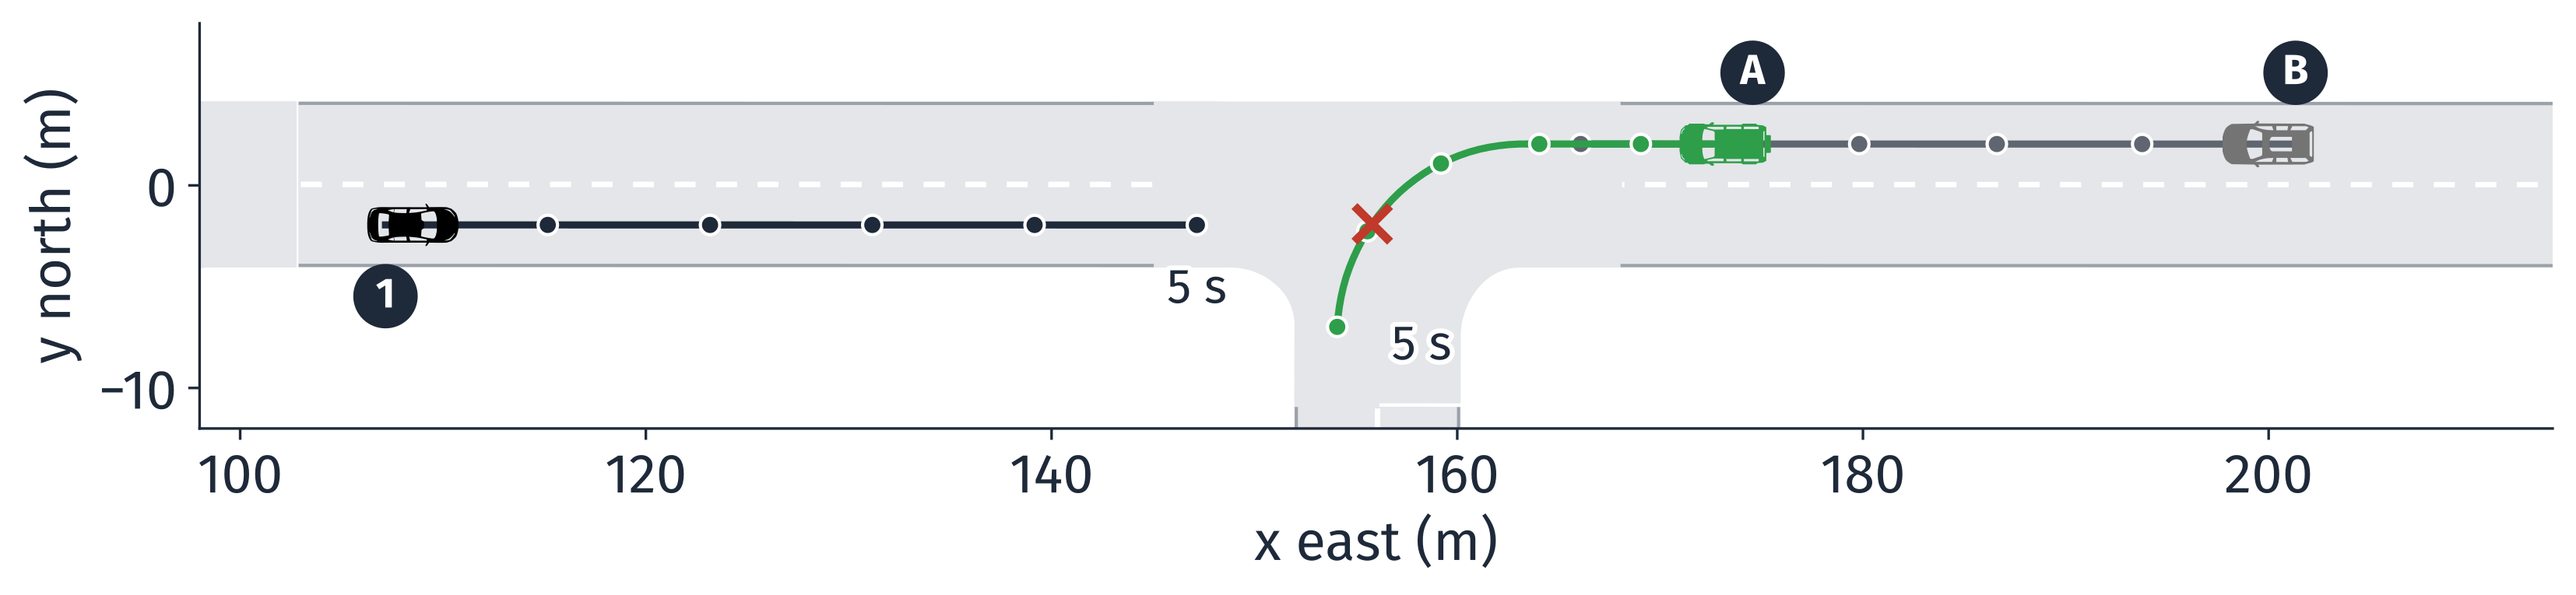
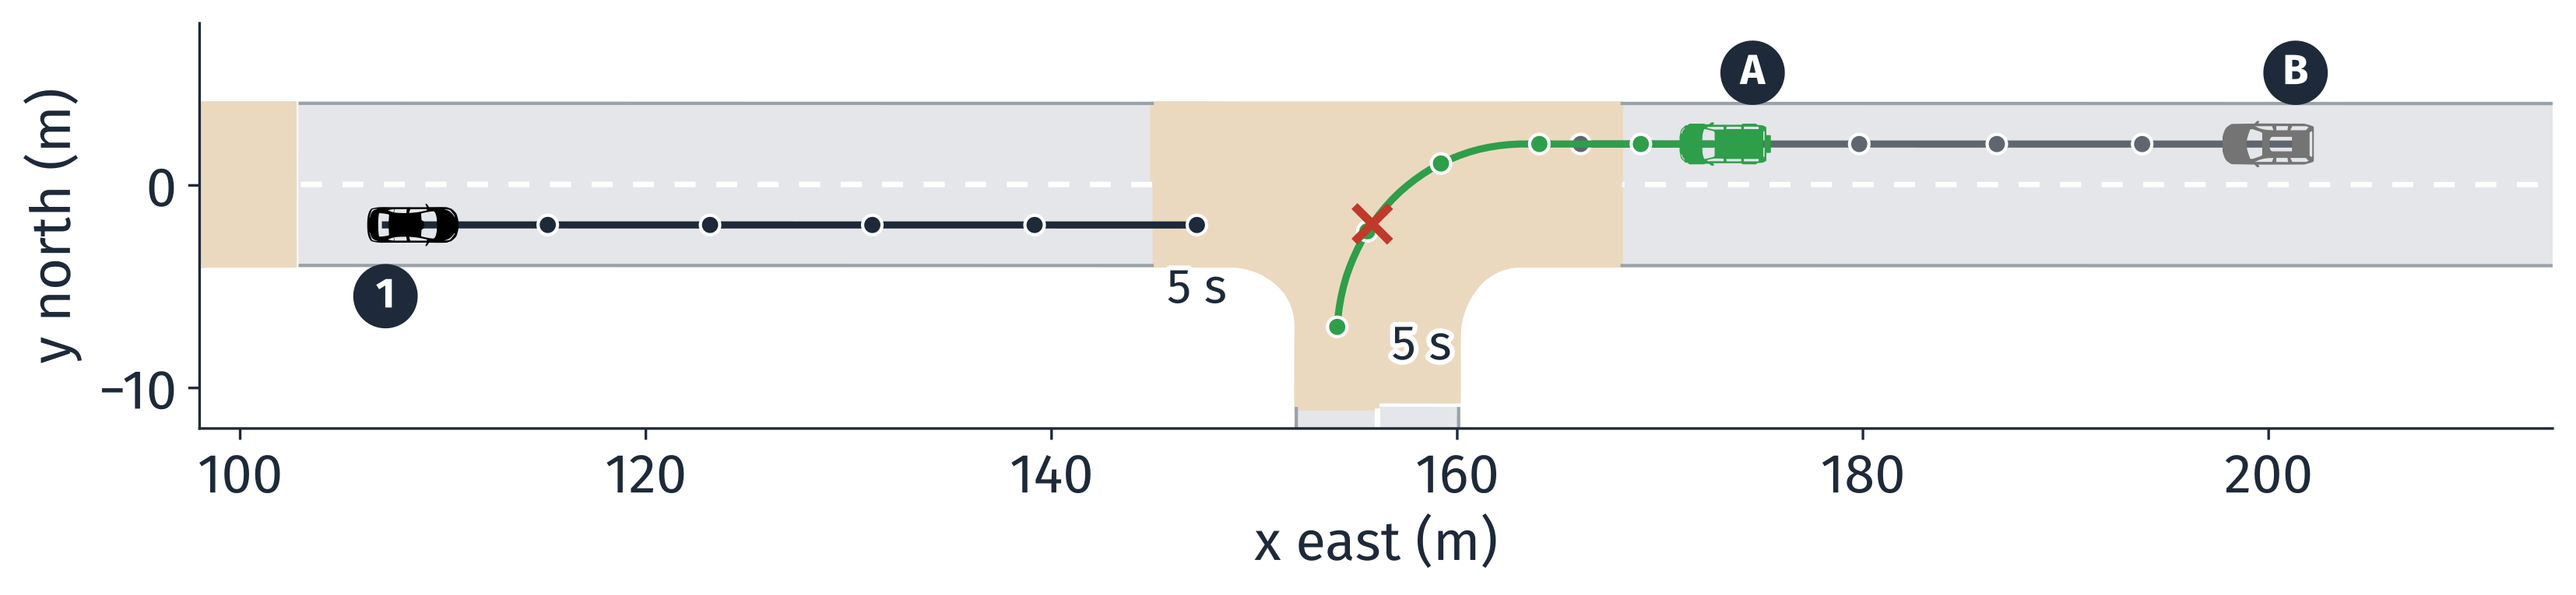
v2.18.9: L8 junction shaded tan on the map and true-futures figures
Same shading as the later L8 figures; captions and alt text say so.

Changed region(s): [[0.4358, 0.1503, 0.6537, 0.6915], [0.0623, 0.1503, 0.1245, 0.451]]

diff --git a/docs/source/lectures/lecture8/l8_lecture.rst b/docs/source/lectures/lecture8/l8_lecture.rst
@@ -354,14 +354,15 @@ The Junction, from the Map
 ~~~~~~~~~~~~~~~~~~~~~~~~~~
 
 .. figure:: /_static/images/L8/scene_map.png
-   :alt: A top view of a T-junction from the map, x east from 98 to 214 meters, y north from minus 24 to 12 meters. A road runs east to west with one lane each way, a white dashed center line, and a side road leaving the junction to the south. Tag 1: the AV, a black car on the south lane at x 108, facing east. Tag A: car A, a green car on the north lane at x 174, facing west. Tag B: car B, a gray car on the north lane at x 201, facing west. A red cross in the junction at x 156, y minus 2, with no tag.
+   :alt: A top view of a T-junction from the map, x east from 98 to 214 meters, y north from minus 24 to 12 meters. A road runs east to west with one lane each way, a white dashed center line, and a side road leaving the junction to the south. The junction is shaded tan; the rest of the road is gray. Tag 1: the AV, a black car on the south lane at x 108, facing east. Tag A: car A, a green car on the north lane at x 174, facing west. Tag B: car B, a gray car on the north lane at x 201, facing west. A red cross in the junction at x 156, y minus 2, with no tag.
    :width: 95%
    :align: center
 
    A T-junction of Town01, from above, :math:`x` east and :math:`y` north in
-   meters, all at :math:`t` = 0. **1:** the AV, on the south lane, facing
-   east. **A:** car A and **B:** car B, on the north lane, facing west. The
-   red cross: where car A's left turn would cross the AV's lane.
+   meters, all at :math:`t` = 0. The junction is shaded tan. **1:** the AV,
+   on the south lane, facing east. **A:** car A and **B:** car B, on the north
+   lane, facing west. The red cross: where car A's left turn would cross the
+   AV's lane.
 
 **1** is the AV, **A** car A and **B** car B, all at :math:`t` = 0, which
 is now. :math:`t` is the time in seconds; a negative :math:`t` is the past.
@@ -378,11 +379,12 @@ The Truth We Simulated
 ~~~~~~~~~~~~~~~~~~~~~~
 
 .. figure:: /_static/images/L8/scene_truth.png
-   :alt: The same top view with each road user's next 5 seconds drawn as a line with a dot every second, and the three cars faded at their positions now. The AV's black line runs east along its lane from x 107 to about 147, labeled 5 s at its end. Car A's green line runs west, then curves left through the junction into the side road, ending at x 154, y minus 7, labeled 5 s. Car B's gray line runs west along the north lane from x 201 to about 164, under car A's line where they overlap. Dark tags 1, A and B mark the AV, car A and car B; a red cross with no tag, in the junction at x 156, y minus 2, marks where car A's turn crosses the AV's lane.
+   :alt: The same top view, the junction shaded tan, with each road user's next 5 seconds drawn as a line with a dot every second, and the three cars faded at their positions now. The AV's black line runs east along its lane from x 107 to about 147, labeled 5 s at its end. Car A's green line runs west, then curves left through the junction into the side road, ending at x 154, y minus 7, labeled 5 s. Car B's gray line runs west along the north lane from x 201 to about 164, under car A's line where they overlap. Dark tags 1, A and B mark the AV, car A and car B; a red cross with no tag, in the junction at x 156, y minus 2, marks where car A's turn crosses the AV's lane.
    :width: 95%
    :align: center
 
-   Where each road user really goes over the next 5 s, a dot every second.
+   Where each road user really goes over the next 5 s, a dot every second;
+   the junction is shaded tan.
    **1:** the AV, black, east along its lane. **A:** car A, green, west and
    then left into the side road. **B:** car B, gray, west along the north
    lane, under car A's line where they overlap. The red cross: where car A's turn

diff --git a/docs/source/changelog/changelog.rst b/docs/source/changelog/changelog.rst
@@ -5,10 +5,21 @@ Changelog
 All notable changes to the ENPM818Z Fall 2026 course documentation are recorded here.
 
 
-.. dropdown:: v2.18.8: Lecture 8 Review, Figures and Reading Material (2026-10-29)
+.. dropdown:: v2.18.9: Lecture 8 Junction Shading (2026-10-29)
    :icon: tag
    :class-container: sd-border-success
    :open:
+
+   .. rubric:: Lecture 8
+
+   - **Lecture page:** the junction is shaded tan in the map figure and in the
+     figure of the true futures, as in the later Lecture 8 figures. Captions
+     and alt text say so.
+
+
+.. dropdown:: v2.18.8: Lecture 8 Review, Figures and Reading Material (2026-10-29)
+   :icon: tag
+   :class-container: sd-border-success
 
    .. rubric:: Lecture 8
 
